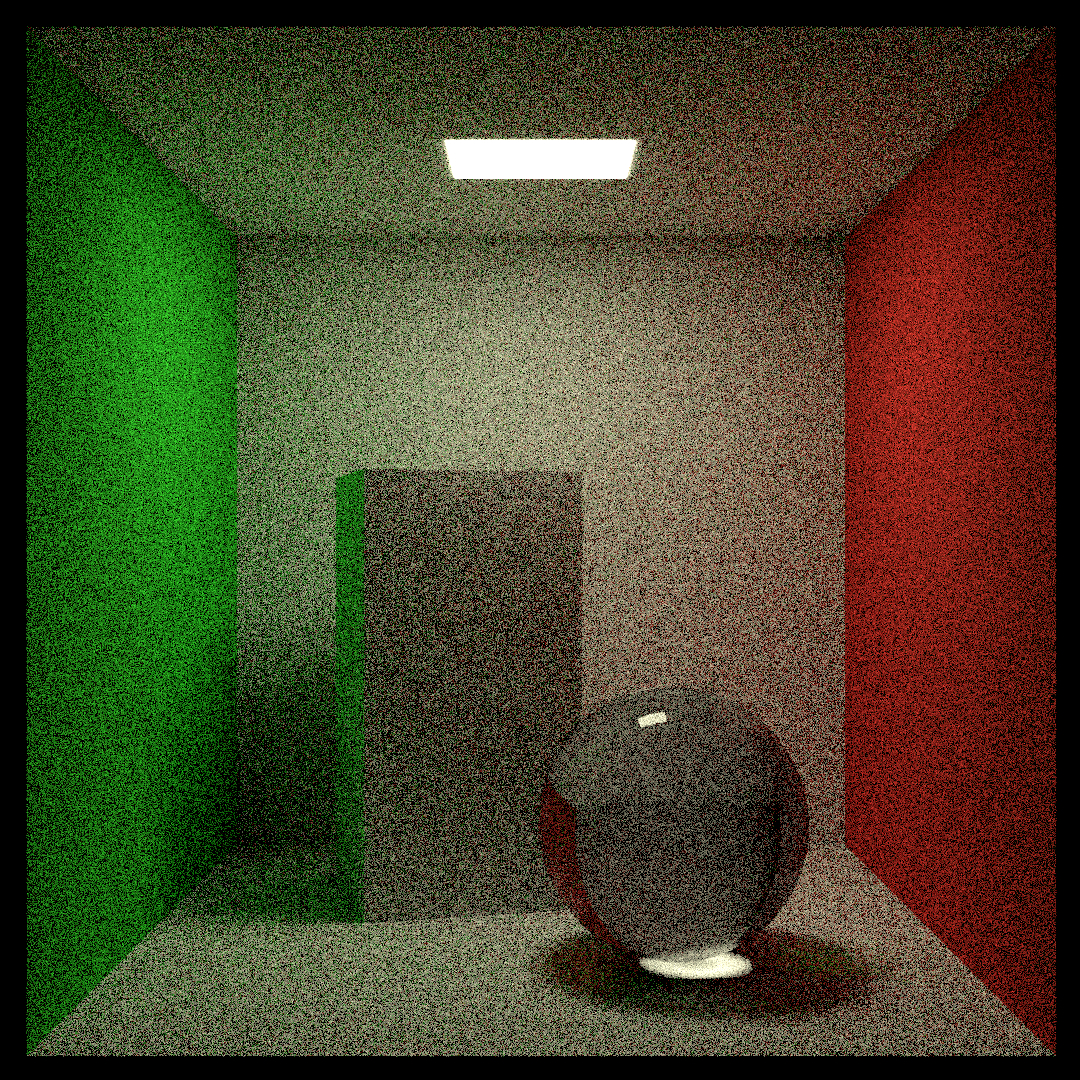
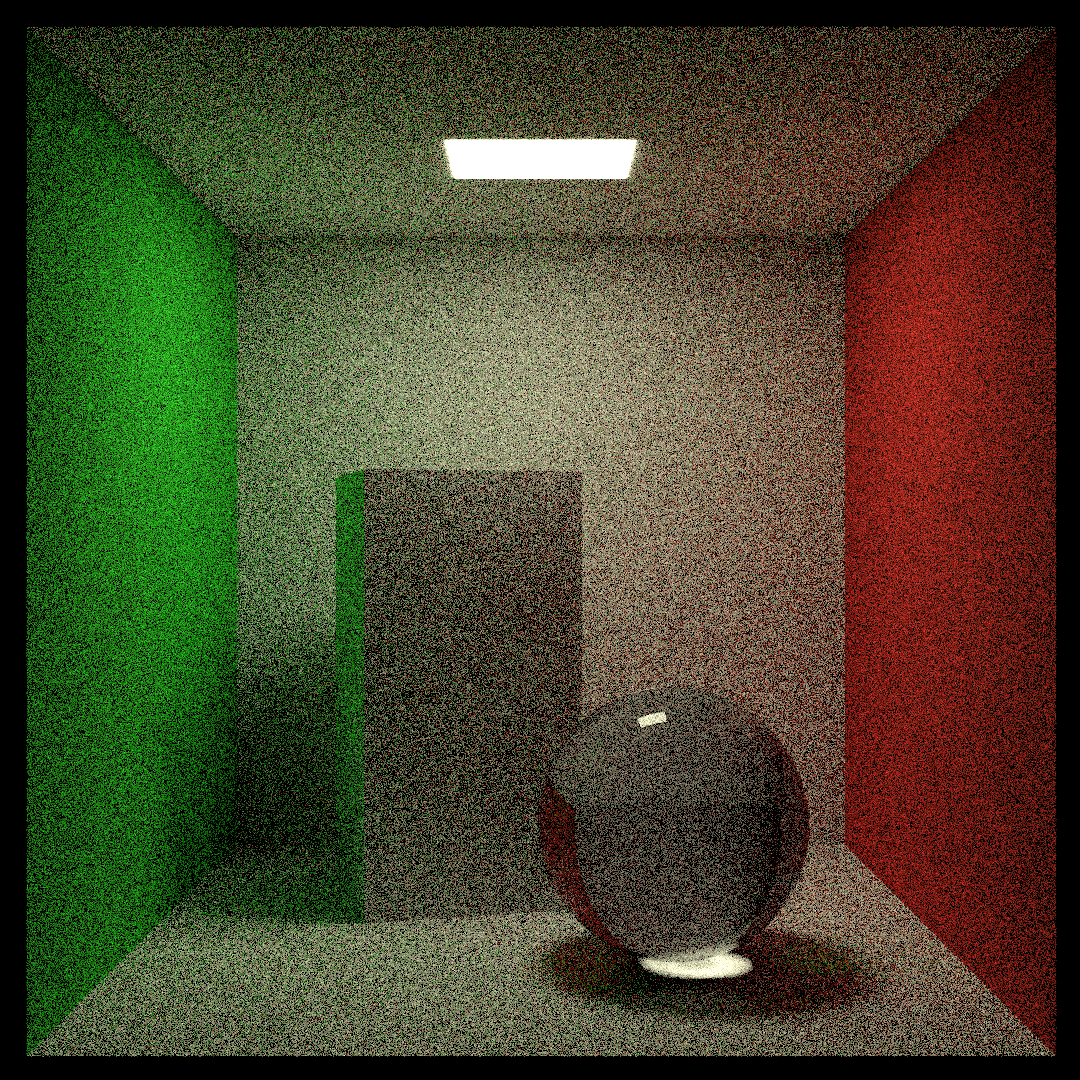
Update for NEE

diff --git a/examples/rayTracingRestOfYourLife/app.cpp b/examples/rayTracingRestOfYourLife/app.cpp
@@ -127,10 +127,16 @@ void App::setup()
     // Hitgroupプログラム
     // Plane
     auto plane_prg = pipeline.createHitgroupProgram(context, module, CH_FUNC_STR("plane"), IS_FUNC_STR("plane"));
+    auto plane_shadow_prg = pipeline.createHitgroupProgram(context, module, CH_FUNC_STR("shadow"), IS_FUNC_STR("plane"));
+    auto plane_light_prg = pipeline.createHitgroupProgram(context, module, CH_FUNC_STR("plane_light"), IS_FUNC_STR("plane"));
     // Sphere
     auto sphere_prg = pipeline.createHitgroupProgram(context, module, CH_FUNC_STR("sphere"), IS_FUNC_STR("sphere"));
+    auto sphere_shadow_prg = pipeline.createHitgroupProgram(context, module, CH_FUNC_STR("shadow"), IS_FUNC_STR("plane"));
+    auto sphere_light_prg = pipeline.createHitgroupProgram(context, module, CH_FUNC_STR("sphere_shadow"), IS_FUNC_STR("plane"));
     // Triangle mesh
     auto mesh_prg = pipeline.createHitgroupProgram(context, module, CH_FUNC_STR("mesh"));
+    auto mesh_shadow_prg = pipeline.createHitgroupProgram(context, module, CH_FUNC_STR("shadow"));
+    auto mesh_light_prg = pipeline.createHitgroupProgram(context, module, CH_FUNC_STR("mesh_light"));
 
     struct Primitive
     {
@@ -144,7 +150,7 @@ void App::setup()
     uint32_t sbt_offset = 0;
     uint32_t instance_id = 0;
     // ShapeとMaterialのデータをGPU上に準備しHitgroup用のSBTデータを追加するLambda関数
-    auto setupPrimitive = [&](ProgramGroup& prg, const Primitive& primitive, const Matrix4f& transform)
+    auto setupPrimitive = [&](ProgramGroup& prg, ProgramGroup& shadow_prg, const Primitive& primitive, const Matrix4f& transform)
     {
         // データをGPU側に用意
         primitive.shape->copyToDevice();
@@ -166,9 +172,13 @@ void App::setup()
                 .type = primitive.material->surfaceType()
             }
         };
-
-        sbt.addHitgroupRecord(record);
         sbt_idx++;
+
+        HitgroupRecord shadow_record{};
+        shadow_prg.recordPackHeader(&shadow_record);
+        sbt_idx++;
+
+        sbt.addHitgroupRecord(record, shadow_record);
 
         // GASをビルドし、IASに追加
         ShapeInstance instance{primitive.shape->type(), primitive.shape, transform};
@@ -189,7 +199,7 @@ void App::setup()
     // 行列情報をAreaEmitterInfoに一緒に設定しておく
     // ついでにShapeInstanceによって光源用のGASも追加
     auto setupAreaEmitter = [&](
-        ProgramGroup& prg,
+        ProgramGroup& prg, ProgramGroup& shadow_prg,
         shared_ptr<Shape> shape,
         AreaEmitter area, Matrix4f transform, 
         uint32_t sample_pdf_id
@@ -204,22 +214,27 @@ void App::setup()
 
         HitgroupRecord record;
         prg.recordPackHeader(&record);
+
+        SurfaceInfo surface_info = {
+            .data = area.devicePtr(), 
+            .sample_id = sample_pdf_id, 
+            .bsdf_id = area_emitter_prg_id, 
+            .pdf_id = sample_pdf_id, 
+            .type = SurfaceType::AreaEmitter
+        };
+
         record.data = 
         {
             .shape_data = shape->devicePtr(), 
-            .surface_info = 
-            {
-                .data = area.devicePtr(),
-                .sample_id = sample_pdf_id,
-                .bsdf_id = area_emitter_prg_id,
-                .pdf_id = sample_pdf_id,
-                .type = SurfaceType::AreaEmitter
-            }
+            .surface_info = surface_info
         };
-
         sbt_idx++;
 
-        sbt.addHitgroupRecord(record);
+        HitgroupRecord shadow_record{};
+        shadow_prg.recordPackHeader(&shadow_record);
+        sbt_idx++;
+
+        sbt.addHitgroupRecord(record, shadow_record);
 
         // GASをビルドし、IASに追加
         ShapeInstance instance{shape->type(), shape, transform};
@@ -236,11 +251,11 @@ void App::setup()
         AreaEmitterInfo area_emitter_info = 
         {
             .shape_data = shape->devicePtr(), 
+            .surface_info = surface_info,
             .objToWorld = transform,
             .worldToObj = transform.inverse(), 
             .sample_id = sample_pdf_id, 
             .pdf_id = sample_pdf_id,
-            .gas_handle = instance.handle()
         };
         area_emitter_infos.push_back(area_emitter_info);
     };
@@ -256,7 +271,7 @@ void App::setup()
         auto diffuse = make_shared<Diffuse>(white);
         auto transform = Matrix4f::translate(0.0f, 555.0f, 0.0f);
         Primitive ceiling{plane, diffuse, diffuse_sample_bsdf_prg_id, diffuse_pdf_prg_id};
-        setupPrimitive(plane_prg, ceiling, transform);
+        setupPrimitive(plane_prg, plane_shadow_prg, ceiling, transform);
     }
 
     // Red wall
@@ -265,7 +280,7 @@ void App::setup()
         auto diffuse = make_shared<Diffuse>(red);
         auto transform = Matrix4f::rotate(math::pi / 2.0f, {0.0f, 0.0f, 1.0f});
         Primitive left_wall{plane, diffuse, diffuse_sample_bsdf_prg_id, diffuse_pdf_prg_id};
-        setupPrimitive(plane_prg, left_wall, transform);
+        setupPrimitive(plane_prg, plane_shadow_prg, left_wall, transform);
     }
 
     // Green wall
@@ -274,7 +289,7 @@ void App::setup()
         auto diffuse = make_shared<Diffuse>(green);
         auto transform = Matrix4f::translate(555.0f, 0.0f, 0.0f) * Matrix4f::rotate(math::pi / 2.0f, {0.0f, 0.0f, 1.0f});
         Primitive right_wall{plane, diffuse, diffuse_sample_bsdf_prg_id, diffuse_pdf_prg_id};
-        setupPrimitive(plane_prg, right_wall, transform);
+        setupPrimitive(plane_prg, plane_shadow_prg, right_wall, transform);
     }
 
     // Back
@@ -283,7 +298,7 @@ void App::setup()
         auto diffuse = make_shared<Diffuse>(white);
         auto transform = Matrix4f::translate(0.0f, 555.0f, 555.0f) * Matrix4f::rotate(math::pi / 2.0f, {1.0f, 0.0f, 0.0f});
         Primitive back{plane, diffuse, diffuse_sample_bsdf_prg_id, diffuse_pdf_prg_id};
-        setupPrimitive(plane_prg, back, transform);
+        setupPrimitive(plane_prg, plane_shadow_prg, back, transform);
     }
 
     // Floor
@@ -292,7 +307,7 @@ void App::setup()
         auto diffuse = make_shared<Diffuse>(white);
         auto transform = Matrix4f::translate(0.0f, 0.0f, 0.0f);
         Primitive floor{plane, diffuse, diffuse_sample_bsdf_prg_id, diffuse_pdf_prg_id};
-        setupPrimitive(plane_prg, floor, transform);
+        setupPrimitive(plane_prg, plane_shadow_prg, floor, transform);
     }
 
     // Cube
@@ -301,7 +316,7 @@ void App::setup()
         auto diffuse = make_shared<Diffuse>(white);
         auto transform = Matrix4f::translate(347.5f, 165, 377.5f) * Matrix4f::rotate(math::radians(15.0f), {0.0f, 1.0f, 0.0f}) * Matrix4f::scale({82.5f, 165.0f, 82.5f});
         Primitive cube{mesh, diffuse, diffuse_sample_bsdf_prg_id, diffuse_pdf_prg_id};
-        setupPrimitive(mesh_prg, cube, transform);
+        setupPrimitive(mesh_prg, mesh_shadow_prg, cube, transform);
     }
 
     // Glass sphere
@@ -310,7 +325,7 @@ void App::setup()
         auto glass = make_shared<Dielectric>(white, 1.5f);
         auto transform = Matrix4f::identity();
         Primitive glass_sphere{sphere, glass, dielectric_sample_bsdf_prg_id, dielectric_pdf_prg_id};
-        setupPrimitive(sphere_prg, glass_sphere, transform);
+        setupPrimitive(sphere_prg, sphere_shadow_prg, glass_sphere, transform);
     }
 
     // Ceiling light
@@ -323,7 +338,7 @@ void App::setup()
         // Area emitter
         auto plane_area_emitter = AreaEmitter(light_white, 20.0f);
         Matrix4f transform = Matrix4f::translate(0.0f, 554.0f, 0.0f);
-        setupAreaEmitter(plane_prg, plane_light, plane_area_emitter, transform, plane_sample_pdf_prg_id);
+        setupAreaEmitter(plane_prg, plane_shadow_prg, plane_light, plane_area_emitter, transform, plane_sample_pdf_prg_id);
     }
 
     // 光源データをGPU側にコピー
@@ -410,7 +425,7 @@ void App::draw()
 
     ImGui_ImplOpenGL3_RenderDrawData(ImGui::GetDrawData());
 
-    if (params.frame == 20000) {
+    if (params.frame == 100) {
         result_bitmap.write(pgPathJoin(pgAppDir(), "pt_debug.jpg"));
         pgExit();
     }

diff --git a/prayground/core/onb.h b/prayground/core/onb.h
@@ -4,28 +4,34 @@
 
 namespace prayground {
 
-struct Onb {
-    INLINE HOSTDEVICE Onb(const Vec3f& n) 
-    {
-        normal = n;
+    struct Onb {
+        INLINE HOSTDEVICE Onb(const Vec3f& n) 
+        {
+            normal = n;
 
-        if (fabs(normal.x()) > fabs(normal.z()))
-            bitangent = Vec3f(-normal.y(), normal.x(), 0.0f);
-        else
-            bitangent = Vec3f(0.0f, -normal.z(), normal.y());
+            if (fabs(normal.x()) > fabs(normal.z())) {
+                bitangent[0] = -normal[1];
+                bitangent[1] = normal[0];
+                bitangent[2] = 0.0f;
+            }
+            else {
+                bitangent[0] = 0.0f;
+                bitangent[1] = -normal[2];
+                bitangent[2] = normal[1];
+            }
 
-        bitangent = normalize(bitangent);
-        tangent = cross( bitangent, normal );
-    }
+            bitangent = normalize(bitangent);
+            tangent = cross(bitangent, normal);
+        }
 
-    INLINE HOSTDEVICE void inverseTransform(Vec3f& p) const 
-    {
-        p = p.x() * tangent + p.y() * bitangent + p.z() * normal;
-    }
+        INLINE HOSTDEVICE void inverseTransform(Vec3f& p) const 
+        {
+            p = p[0] * bitangent + p[1] * tangent + p[2] * normal;
+        }
 
-    Vec3f tangent;
-    Vec3f bitangent;
-    Vec3f normal;
-};
+        Vec3f bitangent;
+        Vec3f tangent;
+        Vec3f normal;
+    };
 
 }

diff --git a/examples/rayTracingRestOfYourLife/params.h b/examples/rayTracingRestOfYourLife/params.h
@@ -12,16 +12,23 @@ using namespace prayground;
 using ConstantTexture = ConstantTexture_<Vec3f>;
 using CheckerTexture = CheckerTexture_<Vec3f>;
 
+enum class RayType : uint32_t
+{
+    RADIANCE = 0,
+    SHADOW = 1,
+    N_RAY = 2
+};
+
 struct AreaEmitterInfo
 {
     void* shape_data;
+    SurfaceInfo surface_info;
+
     Matrix4f objToWorld;
     Matrix4f worldToObj;
 
-    unsigned int sample_id;
-    unsigned int pdf_id;
-    
-    OptixTraversableHandle gas_handle;
+    uint32_t sample_id;
+    uint32_t pdf_id;
 };
 
 struct LightInteraction

diff --git a/prayground/core/bsdf.h b/prayground/core/bsdf.h
@@ -52,8 +52,8 @@ HOSTDEVICE INLINE Vec3f randomSampleHemisphere(unsigned int& seed)
 
 HOSTDEVICE INLINE Vec3f cosineSampleHemisphere(const float u1, const float u2)
 {
-    const float r = sqrtf(u2);
-    const float phi = math::two_pi * u1;
+    const float r = sqrtf(u1);
+    const float phi = math::two_pi * u2;
     const float x = r * cosf(phi);
     const float y = r * sinf(phi);
     const float z = sqrtf(fmaxf(0.0f, 1.0f - x * x - y * y));

diff --git a/examples/rayTracingRestOfYourLife/app.h b/examples/rayTracingRestOfYourLife/app.h
@@ -13,7 +13,7 @@ using HitgroupRecord = Record<HitgroupData>;
 using MissRecord = Record<MissData>;
 using EmptyRecord = Record<EmptyData>;
 
-using SBT = ShaderBindingTable<RaygenRecord, MissRecord, HitgroupRecord, EmptyRecord, EmptyRecord, 1>;
+using SBT = ShaderBindingTable<RaygenRecord, MissRecord, HitgroupRecord, EmptyRecord, EmptyRecord, (uint32_t)RayType::N_RAY>;
 
 class App : public BaseApp
 {
